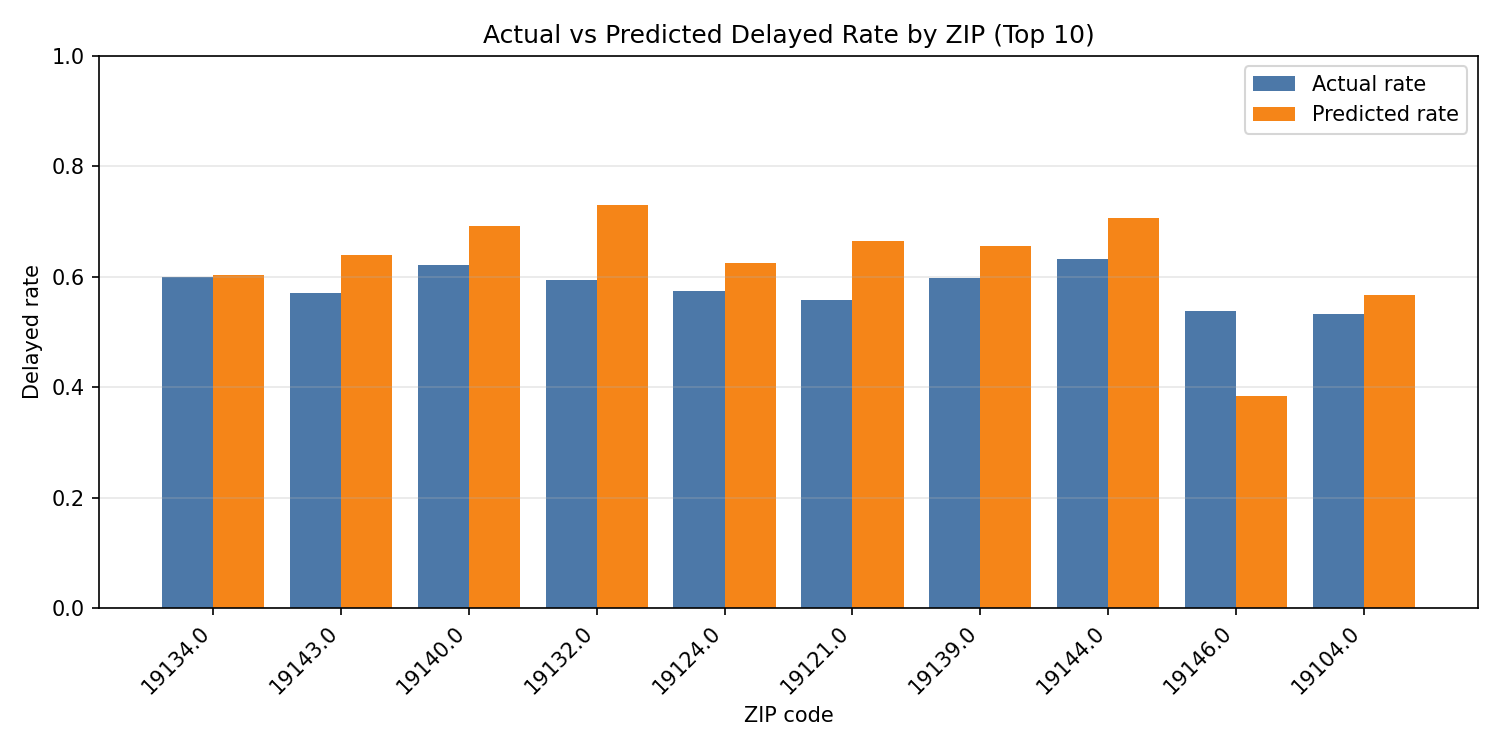
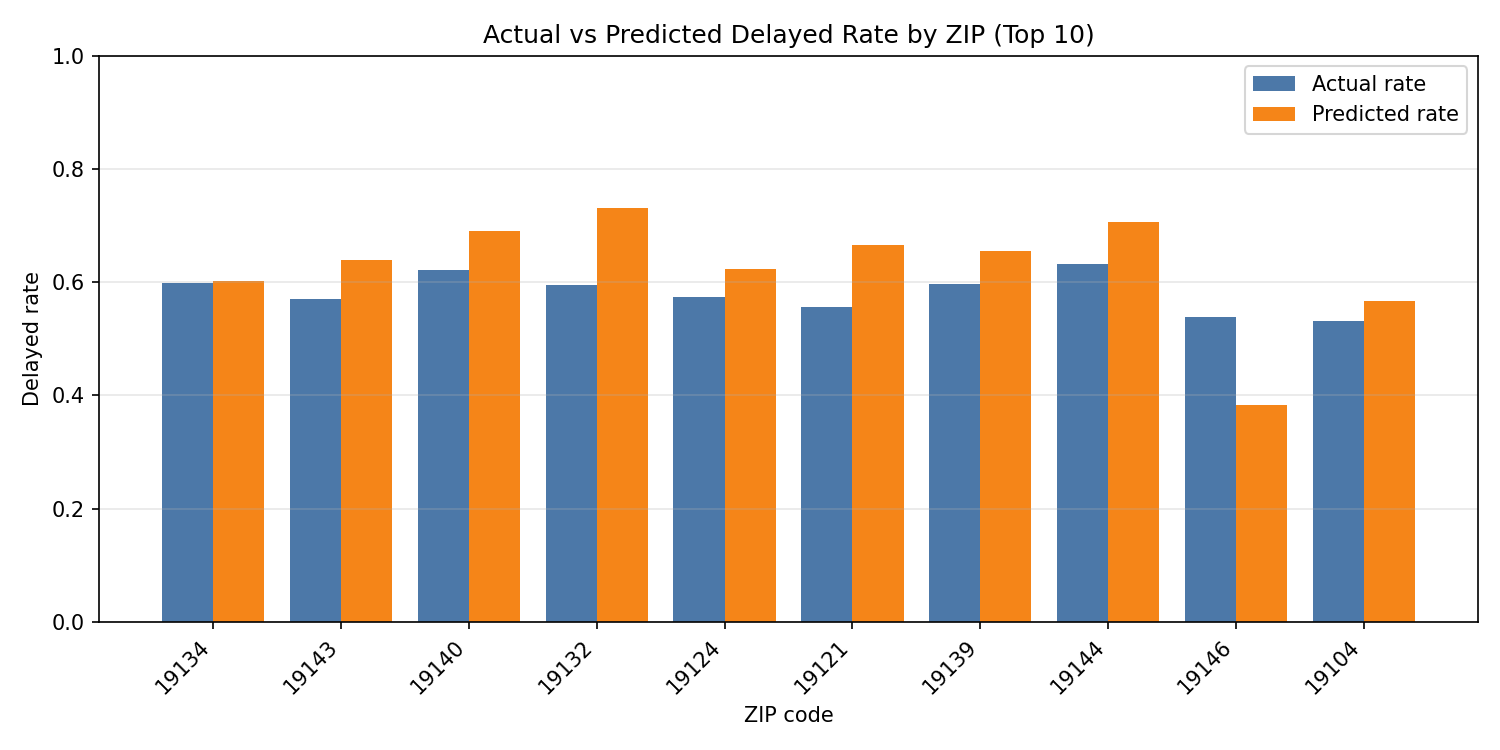
Add ZIP-level error analysis and delay risk scoring

diff --git a/civic-complaint-triage/src/score_complaint.py b/civic-complaint-triage/src/score_complaint.py
@@ -1,0 +1,263 @@
+from __future__ import annotations
+
+import argparse
+import json
+from pathlib import Path
+
+import joblib
+import numpy as np
+import pandas as pd
+
+from train_model import load_feature_data, select_feature_columns
+
+
+def _normalize_zip(value) -> str | None:
+    if pd.isna(value):
+        return None
+    if isinstance(value, (int, np.integer)):
+        return str(int(value))
+    if isinstance(value, (float, np.floating)):
+        if float(value).is_integer():
+            return str(int(value))
+        return str(value)
+
+    text = str(value).strip()
+    if text == "":
+        return None
+    if text.isdigit():
+        return text
+
+    try:
+        as_float = float(text)
+    except ValueError:
+        return text
+
+    if float(as_float).is_integer():
+        return str(int(as_float))
+    return text
+
+
+def _load_input(path: Path | None) -> dict:
+    if path is None:
+        return {
+            "complaint_type": "VACANT LOTS",
+            "complaint_source": "311",
+            "zip_code": "19134",
+            "submitted_month": 6,
+            "submitted_dayofweek": 2,
+            "is_weekend": 0,
+            "lat": 39.9922,
+            "lng": -75.0896,
+        }
+
+    if not path.exists():
+        raise FileNotFoundError(f"Input JSON not found at {path}")
+
+    with path.open("r", encoding="utf-8") as handle:
+        return json.load(handle)
+
+
+def _default_value(series: pd.Series):
+    if series.dropna().empty:
+        return 0
+
+    if pd.api.types.is_bool_dtype(series):
+        return int(series.mode(dropna=True).iloc[0])
+
+    if pd.api.types.is_numeric_dtype(series):
+        return float(series.median(skipna=True))
+
+    mode = series.dropna().mode()
+    if not mode.empty:
+        return mode.iloc[0]
+    return "unknown"
+
+
+def _build_defaults(df: pd.DataFrame, feature_cols: list[str]) -> dict:
+    defaults = {}
+    for col in feature_cols:
+        defaults[col] = _default_value(df[col]) if col in df.columns else 0
+    return defaults
+
+
+def _build_aggregate_maps(df: pd.DataFrame) -> dict:
+    df = df.copy()
+    if "zip_code" in df.columns:
+        df["zip_code_clean"] = df["zip_code"].apply(_normalize_zip)
+    else:
+        df["zip_code_clean"] = None
+
+    maps = {
+        "complaint_type_total_count": None,
+        "zip_total_complaints": None,
+        "zip_type_complaint_count": None,
+    }
+
+    if "complaint_type" in df.columns and "complaint_type_total_count" in df.columns:
+        maps["complaint_type_total_count"] = (
+            df.groupby("complaint_type")["complaint_type_total_count"].median()
+        )
+
+    if "zip_code_clean" in df.columns and "zip_total_complaints" in df.columns:
+        maps["zip_total_complaints"] = (
+            df.groupby("zip_code_clean")["zip_total_complaints"].median()
+        )
+
+    if (
+        "zip_code_clean" in df.columns
+        and "complaint_type" in df.columns
+        and "zip_type_complaint_count" in df.columns
+    ):
+        maps["zip_type_complaint_count"] = (
+            df.groupby(["zip_code_clean", "complaint_type"])[
+                "zip_type_complaint_count"
+            ].median()
+        )
+
+    return maps
+
+
+def _apply_input(
+    row: dict, user_input: dict, feature_cols: list[str]
+) -> dict:
+    cleaned = {}
+    for key, value in user_input.items():
+        if key not in feature_cols:
+            continue
+        if key == "zip_code":
+            cleaned[key] = _normalize_zip(value)
+        else:
+            cleaned[key] = value
+
+    row.update(cleaned)
+    return row
+
+
+def _fill_aggregate_features(
+    row: dict,
+    defaults: dict,
+    maps: dict,
+    warnings: list[str],
+) -> None:
+    complaint_type = row.get("complaint_type")
+    zip_code = _normalize_zip(row.get("zip_code"))
+
+    if "complaint_type_total_count" in row:
+        lookup = maps.get("complaint_type_total_count")
+        if complaint_type and lookup is not None and complaint_type in lookup:
+            row["complaint_type_total_count"] = float(lookup[complaint_type])
+        else:
+            row["complaint_type_total_count"] = defaults.get(
+                "complaint_type_total_count", 0
+            )
+            warnings.append("complaint_type_total_count fallback used")
+
+    if "zip_total_complaints" in row:
+        lookup = maps.get("zip_total_complaints")
+        if zip_code and lookup is not None and zip_code in lookup:
+            row["zip_total_complaints"] = float(lookup[zip_code])
+        else:
+            row["zip_total_complaints"] = defaults.get("zip_total_complaints", 0)
+            warnings.append("zip_total_complaints fallback used")
+
+    if "zip_type_complaint_count" in row:
+        lookup = maps.get("zip_type_complaint_count")
+        key = (zip_code, complaint_type)
+        if zip_code and complaint_type and lookup is not None and key in lookup:
+            row["zip_type_complaint_count"] = float(lookup[key])
+        else:
+            row["zip_type_complaint_count"] = defaults.get(
+                "zip_type_complaint_count", 0
+            )
+            warnings.append("zip_type_complaint_count fallback used")
+
+
+def _risk_band(probability: float) -> str:
+    if probability < 0.4:
+        return "Low"
+    if probability < 0.7:
+        return "Moderate"
+    return "High"
+
+
+def main() -> None:
+    parser = argparse.ArgumentParser(description="Score a complaint for 30-day delay risk.")
+    parser.add_argument(
+        "--input",
+        type=str,
+        default=None,
+        help="Path to a JSON file with complaint fields.",
+    )
+    args = parser.parse_args()
+
+    project_root = Path(__file__).resolve().parents[1]
+    model_path = project_root / "models" / "random_forest_delayed_30.pkl"
+    if not model_path.exists():
+        raise FileNotFoundError(
+            f"Model not found at {model_path}. Train delayed_30 first."
+        )
+
+    df = load_feature_data()
+    feature_cols = select_feature_columns(df, "delayed_30")
+
+    defaults = _build_defaults(df, feature_cols)
+    maps = _build_aggregate_maps(df)
+
+    user_input = _load_input(Path(args.input)) if args.input else _load_input(None)
+    row = defaults.copy()
+    row = _apply_input(row, user_input, feature_cols)
+
+    warnings = []
+    _fill_aggregate_features(row, defaults, maps, warnings)
+
+    feature_row = pd.DataFrame([row], columns=feature_cols)
+
+    model = joblib.load(model_path)
+    if not hasattr(model, "predict_proba"):
+        raise ValueError("Loaded model does not support predict_proba.")
+
+    probability = float(model.predict_proba(feature_row)[:, 1][0])
+    default_pred = "Delayed" if probability >= 0.5 else "Not delayed"
+    balanced_pred = "Delayed" if probability >= 0.7 else "Not delayed"
+    band = _risk_band(probability)
+
+    print(f"30-Day Delay Risk Score: {probability:.2f}")
+    print(f"Default threshold prediction: {default_pred}")
+    print(f"Balanced threshold prediction: {balanced_pred}")
+    print(f"Risk band: {band}")
+    print(
+        "Interpretation: This complaint has {band} delay risk. "
+        "It should be treated as a triage signal, not an automated decision."
+        .format(band=band.lower())
+    )
+
+    if warnings:
+        print("\nWarnings:")
+        for warning in warnings:
+            print(f"- {warning}")
+
+    output = {
+        "input": user_input,
+        "risk_score": round(probability, 4),
+        "default_threshold": 0.5,
+        "balanced_threshold": 0.7,
+        "default_prediction": default_pred,
+        "balanced_prediction": balanced_pred,
+        "risk_band": band,
+        "interpretation": (
+            f"This complaint has {band.lower()} delay risk. "
+            "It should be treated as a triage signal, not an automated decision."
+        ),
+    }
+
+    reports_dir = project_root / "reports"
+    reports_dir.mkdir(parents=True, exist_ok=True)
+    output_path = reports_dir / "scored_sample_complaint.json"
+    with output_path.open("w", encoding="utf-8") as handle:
+        json.dump(output, handle, indent=2)
+
+    print(f"\nSaved scored output to {output_path}")
+
+
+if __name__ == "__main__":
+    main()

diff --git a/civic-complaint-triage/src/zip_error_analysis.py b/civic-complaint-triage/src/zip_error_analysis.py
@@ -16,6 +16,32 @@ def _safe_rate(numerator: int, denominator: int) -> float:
     return float(numerator) / float(denominator)
 
 
+def _normalize_zip(value) -> str | None:
+    if pd.isna(value):
+        return None
+    if isinstance(value, (int, np.integer)):
+        return str(int(value))
+    if isinstance(value, (float, np.floating)):
+        if float(value).is_integer():
+            return str(int(value))
+        return str(value)
+
+    text = str(value).strip()
+    if text == "":
+        return None
+    if text.isdigit():
+        return text
+
+    try:
+        as_float = float(text)
+    except ValueError:
+        return text
+
+    if float(as_float).is_integer():
+        return str(int(as_float))
+    return text
+
+
 def _zip_metrics(group: pd.DataFrame) -> dict:
     y_true = group["y_true"].astype(int)
     y_pred = group["y_pred"].astype(int)
@@ -87,12 +113,13 @@ def main() -> None:
     preds = (proba >= threshold).astype(int)
 
     results = X_test[["zip_code"]].copy()
+    results["zip_code_clean"] = results["zip_code"].apply(_normalize_zip)
     results["y_true"] = y_test.to_numpy()
     results["y_pred"] = preds
 
     # Focus on the top 10 ZIP codes by volume in the test set.
     top_zips = (
-        results["zip_code"]
+        results["zip_code_clean"]
         .dropna()
         .astype(str)
         .value_counts()
@@ -104,10 +131,10 @@ def main() -> None:
         print("No ZIP codes available after filtering missing values.")
         return
 
-    filtered = results[results["zip_code"].astype(str).isin(top_zips)]
+    filtered = results[results["zip_code_clean"].astype(str).isin(top_zips)]
 
     summary_rows = []
-    for zip_code, group in filtered.groupby("zip_code"):
+    for zip_code, group in filtered.groupby("zip_code_clean"):
         metrics = _zip_metrics(group)
         metrics["zip_code"] = str(zip_code)
         summary_rows.append(metrics)

diff --git a/civic-complaint-triage/README.md b/civic-complaint-triage/README.md
@@ -147,6 +147,15 @@ This is a basic geographic error analysis, not a full fairness audit. Complaint 
 
 This model is a prototype triage signal, not an automated decision system.
 
+## Scoring a New Complaint
+Use the scoring script to estimate the probability that a new complaint remains unresolved beyond 30 days. The score is a triage signal, not an automated decision.
+
+```powershell
+python src/score_complaint.py --input examples/sample_complaint.json
+```
+
+The script prints a probability, default and balanced threshold predictions, and a risk band (low, moderate, high). This should not be used to rank neighborhoods or allocate services automatically.
+
 ## How to interpret the results
 - Accuracy: overall fraction of correct predictions, which can be misleading with class imbalance.
 - Precision: when the model predicts delayed, how often it is correct. Low precision means many false alarms.
